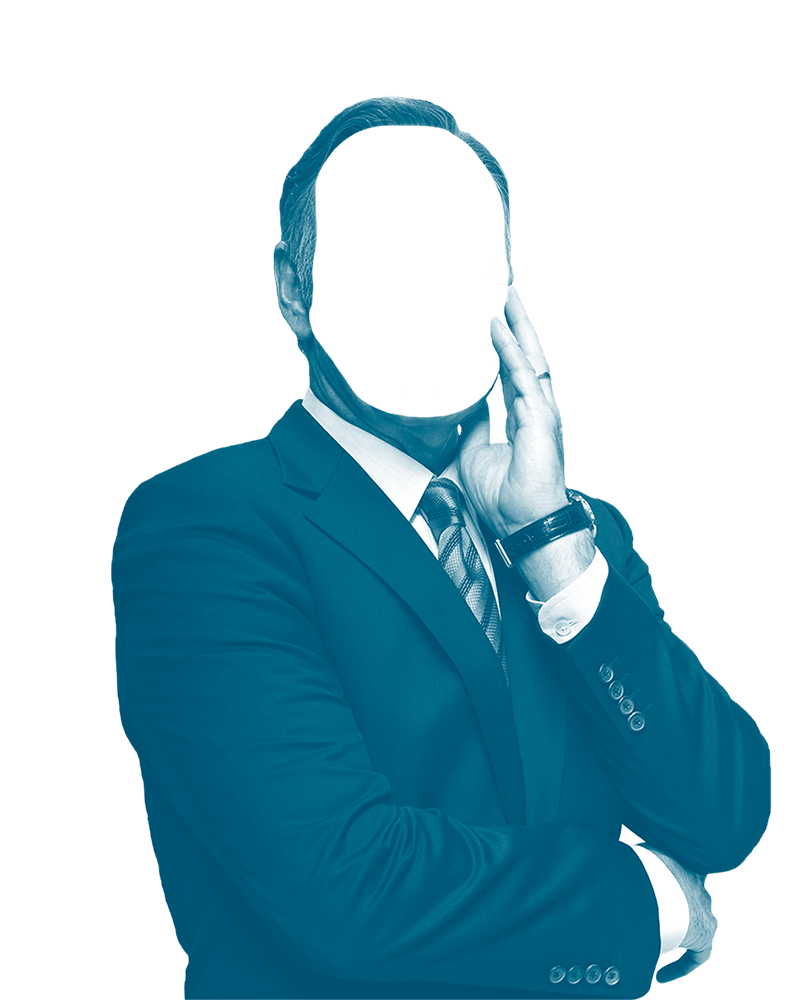
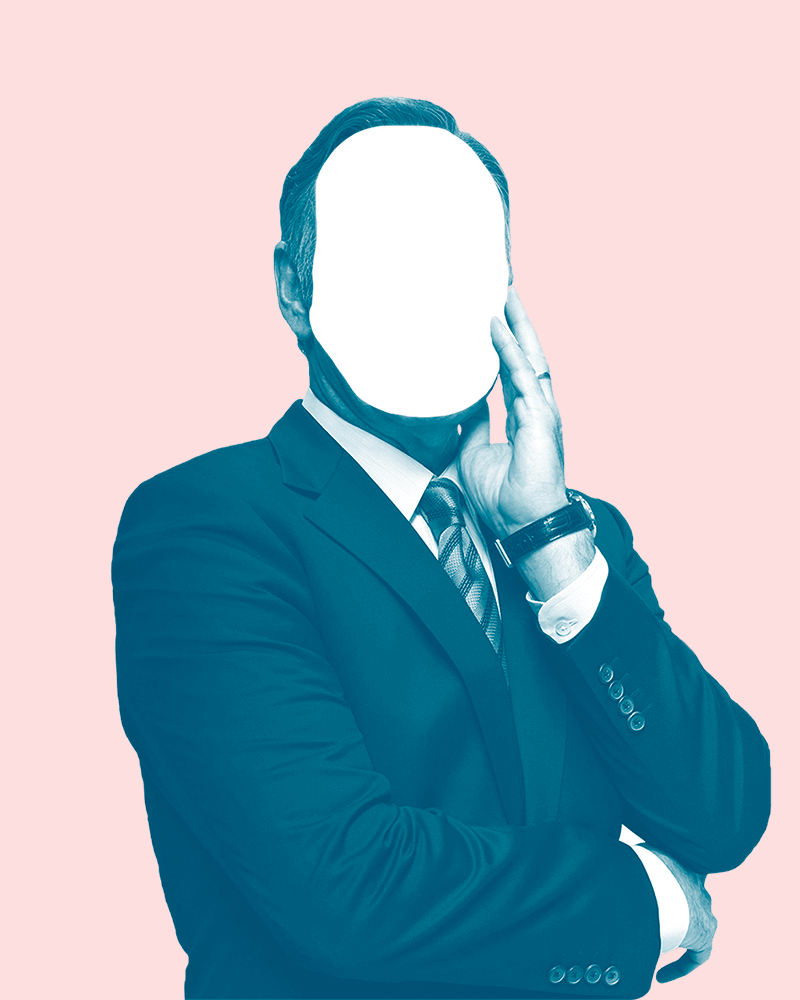
:sparkles: Game > Add House of Cards

diff --git a/src/scripts/components/quiz-custom/house-of-cards/script.js b/src/scripts/components/quiz-custom/house-of-cards/script.js
@@ -24,21 +24,52 @@ export default
 
     destroyed()
     {
+        this.tweens.forEach((tween) =>
+        {
+            tween.kill()
+            tween.clear()
+        })
     },
 
     methods:
     {
         play()
         {
-            // const els = this.$refs.container.children
-            // const elsArray = Array.slice.call(els, 0)
-            // const animEls = elsArray.reverse()
-            // console.log(animEls)
-            // TweenMax.staggerTo(els, 2, {
-            //     scale: 7,
-            //     ease: Sine.easeOut,
-            //     clearProps: 'all'
-            // }, 0.5)
+            const els = this.$refs.container.children
+            const elsArray = Array.from(els)
+            const animEls = elsArray.reverse()
+            const scales = [1, 0.25, 0.08, 0.02, 0.01, 0]
+            this.tweens = []
+            animEls.forEach((el, index) =>
+            {
+                TweenMax.set(el, { scale: scales[index] })
+            })
+            animEls.forEach((el, index) =>
+            {
+                const tween = TweenMax.fromTo(el, 4, {
+                    scale: scales[index]
+                }, {
+                    scale: 5.5,
+                    delay: index * 0.6,
+                    ease: Expo.easeIn,
+                    onComplete: () =>
+                    {
+                        this.restartTween(el, index)
+                    }
+                })
+                this.tweens.push(tween)
+            })
+        },
+        restartTween(el)
+        {
+            const tween = TweenMax.fromTo(el, 4, {
+                scale: 0
+            }, {
+                scale: 5.5,
+                repeat: -1,
+                ease: Expo.easeIn
+            })
+            this.tweens.push(tween)
         }
     }
 }

diff --git a/src/scripts/components/quiz-custom/house-of-cards/template.html b/src/scripts/components/quiz-custom/house-of-cards/template.html
@@ -12,5 +12,11 @@
         <div class="xp-item pos-abs-tl fit">
             <img class="xp-image" src="/static/house-of-cards/front.png" />
         </div>
+        <div class="xp-item pos-abs-tl fit">
+            <img class="xp-image" src="/static/house-of-cards/back.png" />
+        </div>
+        <div class="xp-item pos-abs-tl fit">
+            <img class="xp-image" src="/static/house-of-cards/front.png" />
+        </div>
     </div>
 </div>

diff --git a/src/scripts/config/quiz.js b/src/scripts/config/quiz.js
@@ -53,7 +53,7 @@ export default
         answers: ['house of cards'],
         componentId: 'quiz-custom',
         elapsedTime: 0,
-        color: '#412789',
+        color: '#fcdfde',
         backgroundColor: '#034E6D',
         ambientSound: ''
     },
